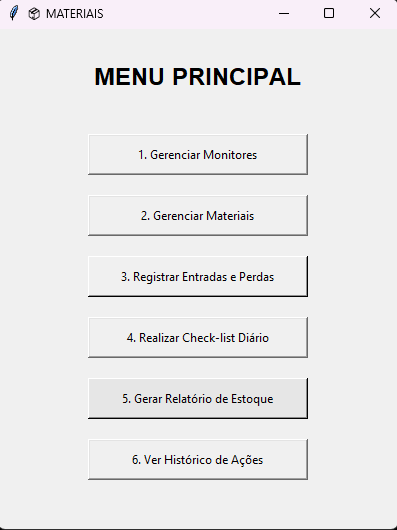
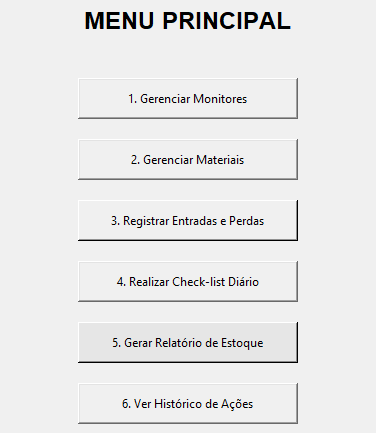
Remove código comentado e ajusta estrutura do componente Projetos

diff --git a/src/components/Projetos.jsx b/src/components/Projetos.jsx
@@ -158,16 +158,8 @@ export default function Projetos() {
                 ) : (
                   <li>• Ferramentas não detalhadas</li>
                 )}  
-</ul>
-
-              {/* Data do projeto */}
-              {projetoSelecionado.date && (
-                <span className="text-[#9f7aea] text-sm font-medium mt-auto">
-                  {projetoSelecionado.date}
-                </span>
-              )}
+                </ul>
             </div>
-
           </div>
         </div>
       )}
